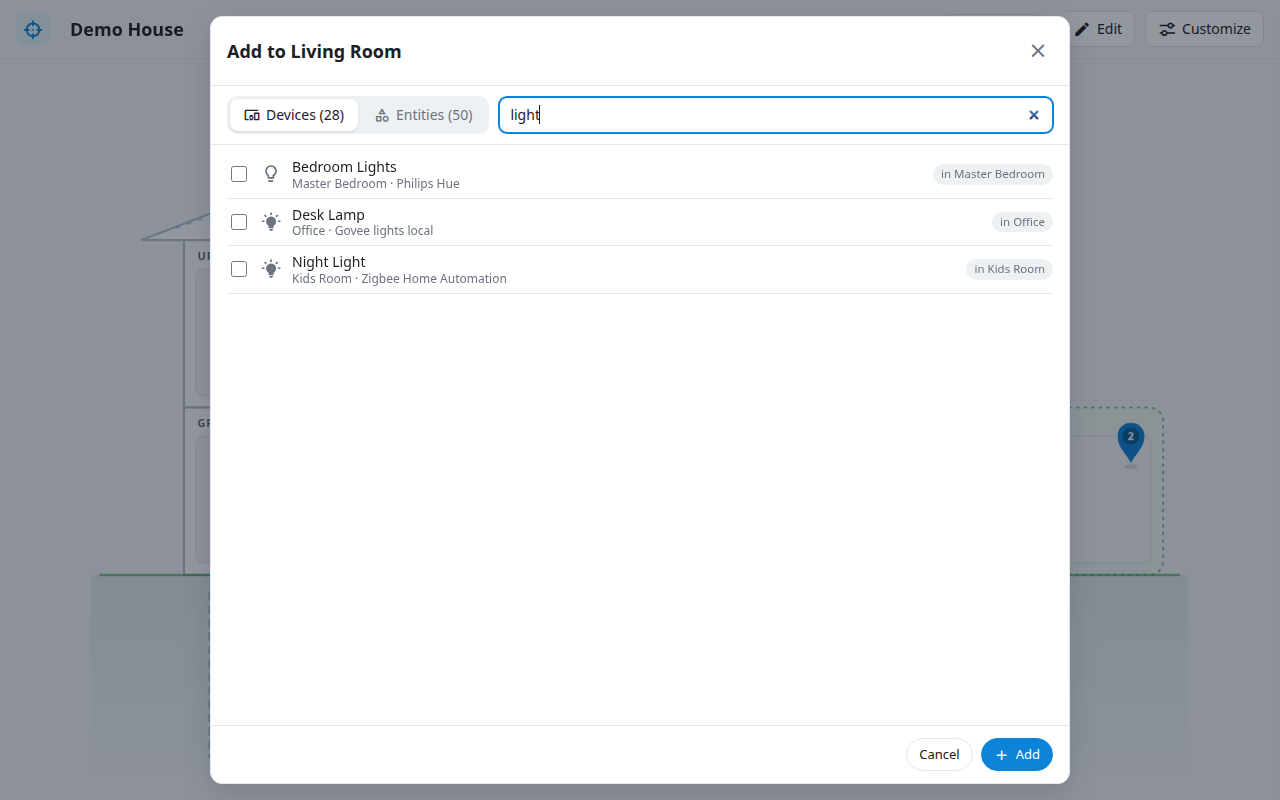
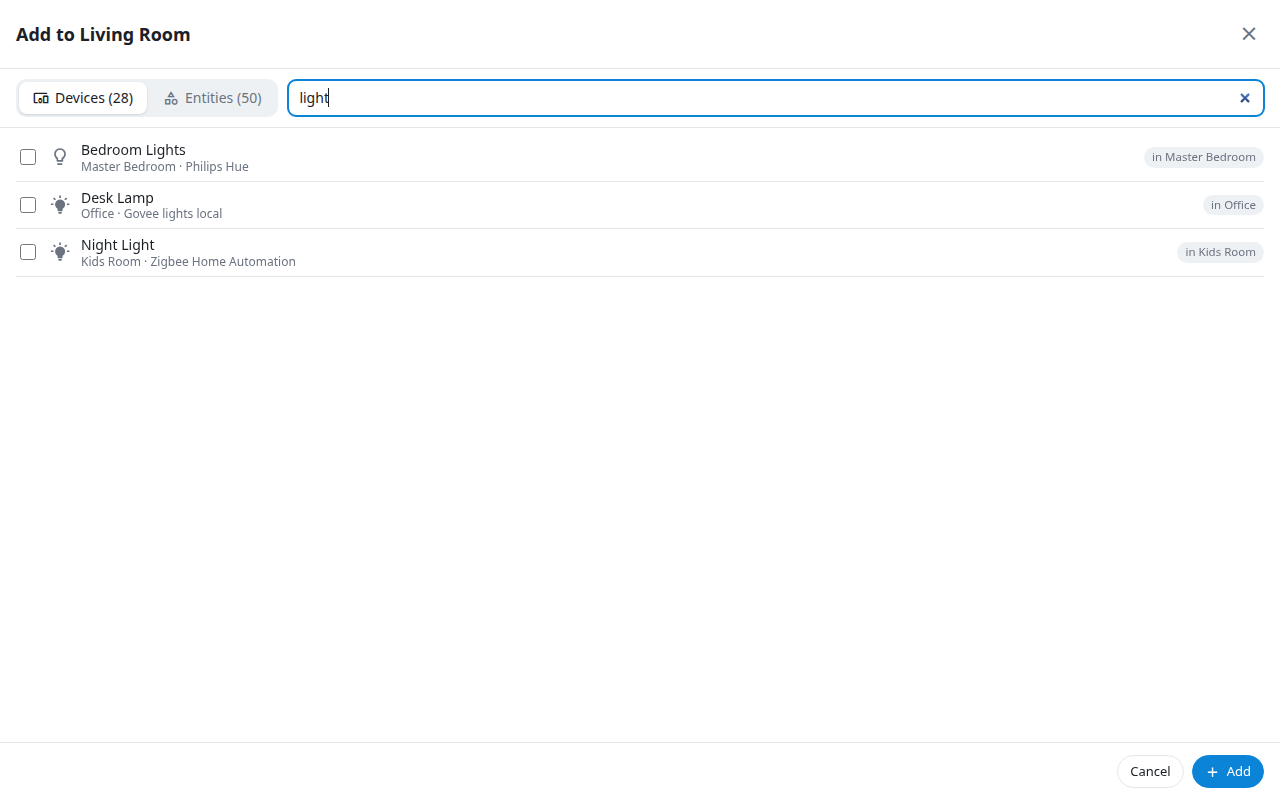
Customize as a full window; integration groups in the tree, renamable

diff --git a/weapon_wheel/app/static/app.js b/weapon_wheel/app/static/app.js
@@ -1201,7 +1201,7 @@ function groupInfo(aid, key) {
     const g = (M().areas[aid]?.groups || []).find((x) => x.id === key);
     return { name: g?.name || 'Group', icon: g?.icon || 'mdi:folder-outline' };
   }
-  return { name: integrationName(key), icon: 'mdi:puzzle-outline' };
+  return { name: L('areas', aid).groups?.[key]?.name || integrationName(key), icon: 'mdi:puzzle-outline' };
 }
 function integrationName(integ) {
   const d = Object.values(M().devices).find((x) => x.integration === integ);
@@ -2474,8 +2474,17 @@ function editRow({ kind, key, label, fallback, icon, orig, extra = [], summary =
 function renderTree(tree, q) {
   withReal(() => renderAutoTree(tree, q));
 }
+/** Rename a room's integration group (stored per room; empty = the integration's name). */
+function setGroupName(aid, key, name) {
+  const groups = { ...(wget('areas', aid).groups || {}) };
+  if (name) groups[key] = { name }; else delete groups[key];
+  wset('areas', aid, { groups: Object.keys(groups).length ? groups : null });
+}
+
 function renderAutoTree(tree, q) {
   const m = M();
+  // Group the tree exactly like the wheels, using the unsaved settings.
+  const draftGroups = (aid) => { const saved = S.layout; S.layout = W; try { return roomGroups(aid); } finally { S.layout = saved; } };
   const match = (...strs) => !q || strs.some((x) => x && x.toLowerCase().includes(q));
   const wAreaFloor = (aid) => wget('areas', aid).floor || m.areas[aid].floor_id;
   const sortW = (ids) => [...ids].sort((a, b) => ((wget('areas', a).order ?? 1e6) - (wget('areas', b).order ?? 1e6)) || m.areas[a].name.localeCompare(m.areas[b].name));
@@ -2486,21 +2495,45 @@ function renderAutoTree(tree, q) {
     const areaEls = [];
     areaIds.forEach((aid, idx) => {
       const a = m.areas[aid];
-      const devEls = [];
-      for (const nid of a.devices) {
+      const deviceEl = (nid, extraMatch = '') => {
         const d = m.devices[nid];
         const dkey = d.device_id || nid;
-        const entEls = d.entities.filter((eid) => match(m.entities[eid].full_name, eid, wget('entities', eid).name) || match(d.name, a.name))
+        const devText = [d.name, wget('devices', dkey).name, d.manufacturer, d.model, a.name, extraMatch];
+        const entEls = d.entities.filter((eid) => match(m.entities[eid].full_name, eid, wget('entities', eid).name) || match(...devText))
           .map((eid) => h('div', { class: 'leaf' }, editRow({
             kind: 'entities', key: eid, label: domainOf(eid), fallback: m.entities[eid].name, icon: entityIcon(eid), orig: eid, summary: false,
           })));
-        if (!entEls.length && !match(d.name, a.name)) continue;
-        devEls.push(h('details', { open: !!q },
+        if (!entEls.length && !match(...devText)) return null;
+        return h('details', { open: !!q },
           h('summary', {}, editRow({
             kind: 'devices', key: dkey, label: 'Device', fallback: d.virtual ? `${a.name} extras` : d.name,
             icon: deviceIcon(nid), orig: [d.manufacturer, d.model].filter(Boolean).join(' ') || `${d.entities.length} entities`,
           })),
-          entEls));
+          entEls);
+      };
+      const devEls = [];
+      const { groups, loose } = draftGroups(aid);
+      const grouped = new Set(Object.values(groups).flat());
+      // Integration groups first (as on the wheel), each with its devices inside.
+      for (const [key, ids] of Object.entries(groups).sort((x, y) => integrationName(x[0]).localeCompare(integrationName(y[0])))) {
+        const custom = wget('areas', aid).groups?.[key]?.name || '';
+        const inner = ids.map((nid) => deviceEl(nid, `${custom} ${integrationName(key)}`)).filter(Boolean);
+        if (!inner.length && !match(custom, integrationName(key))) continue;
+        const name = textIn(custom, (v) => setGroupName(aid, key, v), integrationName(key));
+        name.addEventListener('click', (e) => e.preventDefault()); // don't fold the <details>
+        devEls.push(h('details', { open: !!q, class: 'tree-group' },
+          h('summary', {}, h('div', { class: 'trow' },
+            ico('mdi:chevron-right', 'caret'),
+            h('span', { class: 'kind' }, 'Group'),
+            ico('mdi:puzzle-outline', 'ico'),
+            name,
+            h('span', { class: 'orig', title: integrationName(key) }, `${ids.length} devices · ${integrationName(key)}`))),
+          inner));
+      }
+      // Then the devices outside a group - and hidden ones, so they can be shown again.
+      for (const nid of [...loose, ...a.devices.filter((n) => !grouped.has(n) && !loose.includes(n))]) {
+        const el = deviceEl(nid);
+        if (el) devEls.push(el);
       }
       if (!devEls.length && !match(a.name)) return;
       const floorSel = h('select', { title: 'Floor, or outside the house' }, allFloors().map((ff) => {

diff --git a/weapon_wheel/app/static/style.css b/weapon_wheel/app/static/style.css
@@ -394,6 +394,21 @@ details[open] > summary .caret { transform: rotate(90deg); }
 .leaf { margin-left: 44px; }
 @media (max-width: 600px) { .trow .orig, .trow .kind { display: none; } .leaf { margin-left: 22px; } }
 
+/* ---------- Customize: a full window like the house ---------- */
+#editor { padding: 0; background: var(--bg); }
+#editor > .modal-card {
+  width: 100%; max-width: none; height: 100%; max-height: none;
+  border: 0; border-radius: 0; box-shadow: none; background: var(--bg);
+  --page: max(16px, calc((100% - 1100px) / 2));
+}
+#editor > .modal-card > .modal-head {
+  padding: 10px var(--page); min-height: 56px; background: var(--card); border-bottom: 1px solid var(--line);
+}
+#editor > .modal-card > .modal-body { padding: 14px var(--page) 24px; }
+#editor > .modal-card > .modal-foot { padding: 12px var(--page); background: var(--card); }
+#editor .picker { border-radius: 0; }
+.tree-group > summary .trow .ico { color: var(--primary); }
+
 /* ---------- floor-plan editor ---------- */
 #plan-bar {
   position: absolute; top: 10px; left: 50%; transform: translateX(-50%); z-index: 15; max-width: calc(100% - 24px);

diff --git a/docs/user-manual.md b/docs/user-manual.md
@@ -135,7 +135,7 @@ Opening a room zooms into it and fans its devices out as a wheel.
 **Groups.** When a room has two or more devices from the same integration (for example several Shelly devices), they
 share one slice named after the integration, such as *Shelly · 2 devices · 1 on*. Select it to open a wheel with just
 those devices. Rooms whose devices all come from one integration aren't grouped, because that would only add a click.
-You can turn grouping off in Customize. In a custom home you make your own groups instead.
+In Customize you can rename a group or turn grouping off. In a custom home you make your own groups instead.
 
 ![A group wheel](images/manual/group-wheel.png)
 
@@ -240,8 +240,8 @@ In a **custom home**, edit mode is also the [floor-plan editor](#floor-plan).
 
 ## 11. Customize the automatic home
 
-Click **Customize** (top right). Changes only take effect when you click **Save**, and they only affect the dashboard,
-never Home Assistant.
+Click **Customize** (top right). It opens as a full window; **×** (top right) or **Cancel** closes it. Changes only
+take effect when you click **Save**, and they only affect the dashboard, never Home Assistant.
 
 ![Customize](images/manual/customize.png)
 
@@ -253,15 +253,19 @@ never Home Assistant.
 - **Skip entity wheel for single-entity devices**: a device with one control opens it straight away.
 - **Group devices of the same integration**: turn integration groups on or off.
 
-**The tree**, with levels → rooms → devices → entities:
+**The tree**, with levels → rooms → groups → devices → entities, arranged exactly like the wheels:
 
 - **Eye**: show or hide the item on the dashboard.
 - **Name field**: rename it for the dashboard. Leave it empty to use the Home Assistant name.
+- **Groups**: a room's integration groups appear with their devices inside. Type a new name to rename a group (for
+  example *Shelly* → *Kitchen appliances*); leave it empty to use the integration's name. The name is per room.
+  Devices you've hidden are listed outside the groups, so you can show them again.
 - **Room level list**: move a room to another level, or to the built-in **Outdoor (outside the house)** level.
 - **▲ ▼**: reorder rooms on a level.
 - **Outdoor** on a level: draw all its rooms in a garden next to the house. This is handy for a *Garden* floor or the
   *Unassigned level*.
-- **Search box**: filter the tree.
+- **Search box**: filter the tree by the name of a level, room, group, device or entity, an entity ID, or a device's
+  manufacturer or model.
 
 **Reset everything** removes all customizations, including a custom home, when you save.
 

diff --git a/weapon_wheel/DOCS.md b/weapon_wheel/DOCS.md
@@ -80,12 +80,13 @@ Switch back to **Automatic** at any time - your custom home is kept for later.
 
 ## Customize
 
-Click **Customize** (top right) to:
+Click **Customize** (top right) to open it as a full window, where you can:
 
 - give the house a name, shown on the roof, in the navigation bar and in the browser tab (leave it empty to use the
   home name from *Settings → System → General*);
 - show or hide any floor, room, device or entity (eye button);
 - rename them for this dashboard (leave the field empty to use the Home Assistant name);
+- rename a room's integration groups (the tree shows them like the wheels);
 - reorder rooms on a floor and move a room to a different floor;
 - tick **Outdoor** on a level to show all its rooms in a garden outside the house (for example a *Garden* or
   *Outside* floor, or the *Unassigned level*), or move a single room to the built-in **Outdoor** level;

diff --git a/weapon_wheel/CHANGELOG.md b/weapon_wheel/CHANGELOG.md
@@ -6,6 +6,9 @@
 - Fixed a stray "null" text above the sidebar for cameras and single entities, and under the list in the
   *Add devices or entities* picker.
 - Wording: Home Assistant calls add-ons **apps** now, and so do this app's texts.
+- **Customize** opens as a full window, like the house, instead of a floating box.
+- The Customize tree shows each room's **integration groups** like the wheels do, and you can **rename** a group (per
+  room). The search also finds devices by manufacturer and model.
 
 ## 0.3.1
 - The tooltip when you hover a room now shows exactly what its card shows, in the same order and with names - so a
